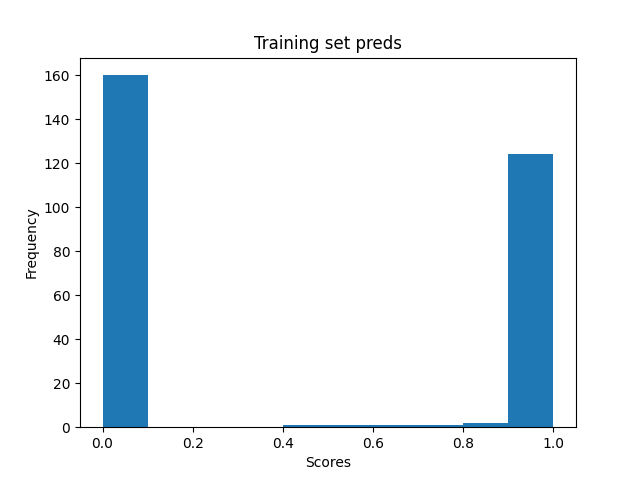
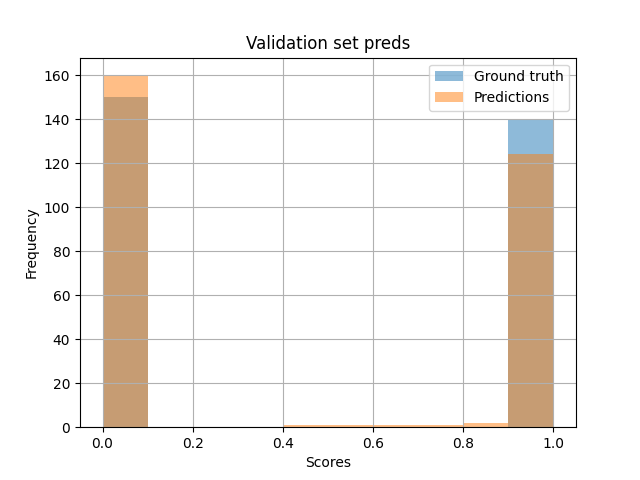
updated

diff --git a/inference.py b/inference.py
@@ -68,7 +68,10 @@ def infer(data):
         gts = []
         with torch.no_grad():
             for clip_fts, _, video_gt in tqdm(val_dl):
-                gts.extend(video_gt)
+                if len(video_gt) == 1:
+                    gts.append(0)
+                else:
+                    gts.append(1)
                 clip_fts = clip_fts.to(device)
 
                 scores = model(clip_fts)
@@ -81,7 +84,7 @@ def infer(data):
 
                 preds.extend(pred)
 
-        return preds
+        return gts, preds
 
 
 
@@ -93,6 +96,7 @@ def infer(data):
 
 
 gts, preds = infer(data='valid')
+print(len(gts), len(preds))
 plt.figure()
 plt.hist(gts, alpha=0.5, label="Ground truth")
 plt.hist(preds, alpha=0.5, label="Predictions")
@@ -101,7 +105,7 @@ plt.title('Validation set preds')
 plt.xlabel('Scores')
 plt.grid()
 plt.ylabel('Frequency')
-plt.savefig('figure.png')
+plt.savefig('figure#1.png')
 
 
             
